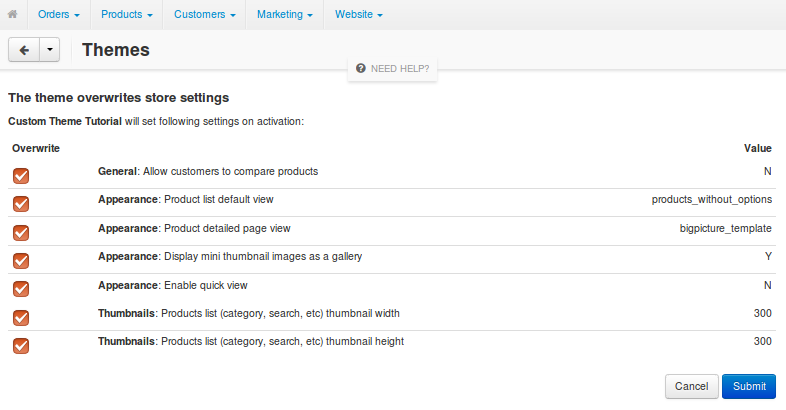
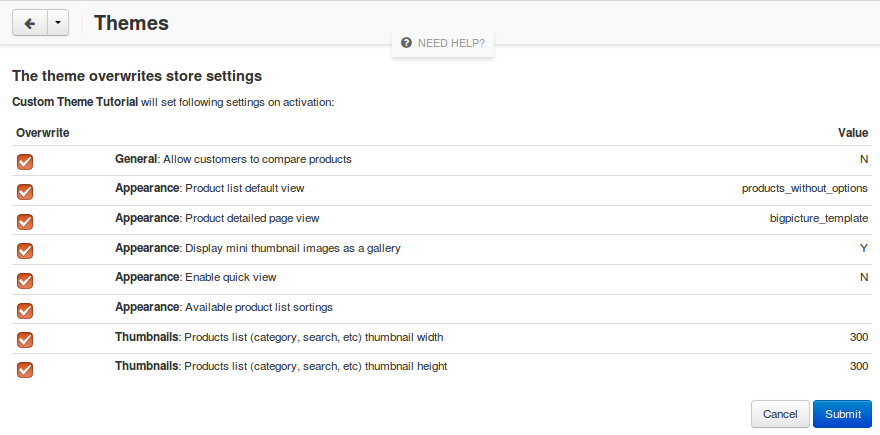
Designer Guide: Theme Tutorial: Change Settings via a Theme: Manifest.json and screenshot updated.

diff --git a/designer_guide/theme_tutorial/change_settings.rst b/designer_guide/theme_tutorial/change_settings.rst
@@ -49,21 +49,27 @@ Here’s the example of settings_overrides from `manifest.json of our tutorial t
 
   "settings_overrides": {
     "General": {
-      "enable_compare_products":        false
+      "enable_compare_products": false
     },
     "Appearance": {
-      "default_products_view":          "products_without_options",
-      "default_product_details_view":   "bigpicture_template",
-      "thumbnails_gallery":             true,
-      "enable_quick_view":              false
+      "default_products_view": "products_without_options",
+      "default_product_details_view": "bigpicture_template",
+      "thumbnails_gallery": true,
+      "enable_quick_view": false,
+      "available_product_list_sortings": [
+        "product-asc",
+        "product-desc",
+        "price-asc",
+        "price-desc"
+      ]
     },
     "Thumbnails": {
-      "product_lists_thumbnail_width":  300,
+      "product_lists_thumbnail_width": 300,
       "product_lists_thumbnail_height": 300
     }
   }
 
-When activated, a theme that has this code in manifest.json will do the following things:
+When activated, a theme that has this code in **manifest.json** will do the following things:
 
 * Disable product comparison.
 
@@ -84,6 +90,10 @@ When activated, a theme that has this code in manifest.json will do the followin
 * Disable **Quick View**.
 
   *(Appearance → Enable quick view)*
+
+* Select *Sort Alphabetically: A to Z*, *Sort Alphabetically: Z to A*, *Sort by Price: Low to High*, and *Sort by Price: High to Low* as the only available product list sortings.
+
+  *(Appearance → Available product list sortings)
 
 * Set the width and height of thumbnails on the product list to 300 px.
 
